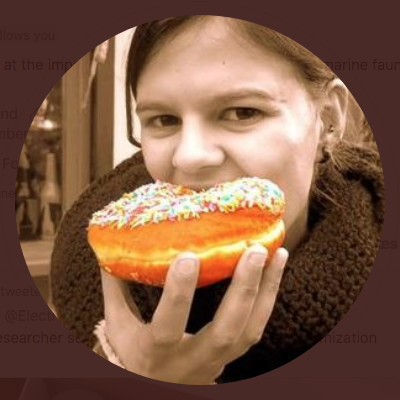
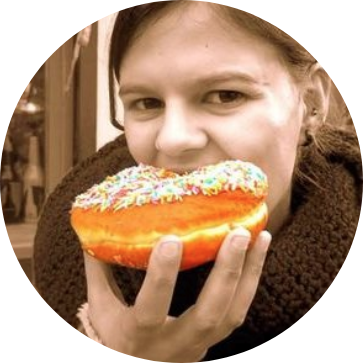
updated photos

diff --git a/People.html b/People.html
@@ -7,11 +7,12 @@
 <meta charset="utf-8" />
 <meta http-equiv="Content-Type" content="text/html; charset=utf-8" />
 <meta name="generator" content="pandoc" />
+<meta http-equiv="X-UA-Compatible" content="IE=EDGE" />
 
 
 
 
-<title></title>
+<title>People</title>
 
 <script src="site_libs/jquery-1.11.3/jquery.min.js"></script>
 <meta name="viewport" content="width=device-width, initial-scale=1" />
@@ -71,7 +72,6 @@ code {
 }
 img {
   max-width:100%;
-  height: auto;
 }
 .tabbed-pane {
   padding-top: 12px;
@@ -232,48 +232,9 @@ $(document).ready(function () {
 }
 </style>
 
-<script>
-$(document).ready(function () {
-  window.buildTabsets("TOC");
-});
-
-$(document).ready(function () {
-  $('.tabset-dropdown > .nav-tabs > li').click(function () {
-    $(this).parent().toggleClass('nav-tabs-open')
-  });
-});
-</script>
-
 <!-- code folding -->
 
 
-
-<script>
-$(document).ready(function ()  {
-
-    // move toc-ignore selectors from section div to header
-    $('div.section.toc-ignore')
-        .removeClass('toc-ignore')
-        .children('h1,h2,h3,h4,h5').addClass('toc-ignore');
-
-    // establish options
-    var options = {
-      selectors: "h1,h2",
-      theme: "bootstrap3",
-      context: '.toc-content',
-      hashGenerator: function (text) {
-        return text.replace(/[.\\/?&!#<>]/g, '').replace(/\s/g, '_').toLowerCase();
-      },
-      ignoreSelector: ".toc-ignore",
-      scrollTo: 0
-    };
-    options.showAndHide = false;
-    options.smoothScroll = true;
-
-    // tocify
-    var toc = $("#TOC").tocify(options).data("toc-tocify");
-});
-</script>
 
 <style type="text/css">
 
@@ -287,6 +248,12 @@ $(document).ready(function ()  {
 }
 }
 
+@media print {
+.toc-content {
+  /* see https://github.com/w3c/csswg-drafts/issues/4434 */
+  float: right;
+}
+}
 
 .toc-content {
   padding-left: 30px;
@@ -488,6 +455,7 @@ div.tocify {
 
 
 
+<h1 class="title toc-ignore">People</h1>
 
 </div>
 
@@ -510,6 +478,7 @@ div.tocify {
 </ul>
 <p> </p>
 <p> </p>
+<p> </p>
 </div>
 <div id="deon-roos" class="section level4">
 <h4>Deon Roos</h4>
@@ -525,6 +494,7 @@ div.tocify {
 </ul>
 <p> </p>
 <p> </p>
+<p> </p>
 </div>
 <div id="ana-couto" class="section level4">
 <h4>Ana Couto</h4>
@@ -538,6 +508,7 @@ div.tocify {
 <li>Twitter: <a href="https://twitter.com/AnaSofiaCouto" class="uri">https://twitter.com/AnaSofiaCouto</a></li>
 <li>GitHub: <a href="https://github.com/Anofia" class="uri">https://github.com/Anofia</a></li>
 </ul>
+<p> </p>
 <p> </p>
 <p> </p>
 </div>
@@ -572,6 +543,49 @@ $(document).ready(function () {
 });
 
 
+</script>
+
+<!-- tabsets -->
+
+<script>
+$(document).ready(function () {
+  window.buildTabsets("TOC");
+});
+
+$(document).ready(function () {
+  $('.tabset-dropdown > .nav-tabs > li').click(function () {
+    $(this).parent().toggleClass('nav-tabs-open')
+  });
+});
+</script>
+
+<!-- code folding -->
+
+<script>
+$(document).ready(function ()  {
+
+    // move toc-ignore selectors from section div to header
+    $('div.section.toc-ignore')
+        .removeClass('toc-ignore')
+        .children('h1,h2,h3,h4,h5').addClass('toc-ignore');
+
+    // establish options
+    var options = {
+      selectors: "h1,h2",
+      theme: "bootstrap3",
+      context: '.toc-content',
+      hashGenerator: function (text) {
+        return text.replace(/[.\\/?&!#<>]/g, '').replace(/\s/g, '_').toLowerCase();
+      },
+      ignoreSelector: ".toc-ignore",
+      scrollTo: 0
+    };
+    options.showAndHide = false;
+    options.smoothScroll = true;
+
+    // tocify
+    var toc = $("#TOC").tocify(options).data("toc-tocify");
+});
 </script>
 
 <!-- dynamically load mathjax for compatibility with self-contained -->
